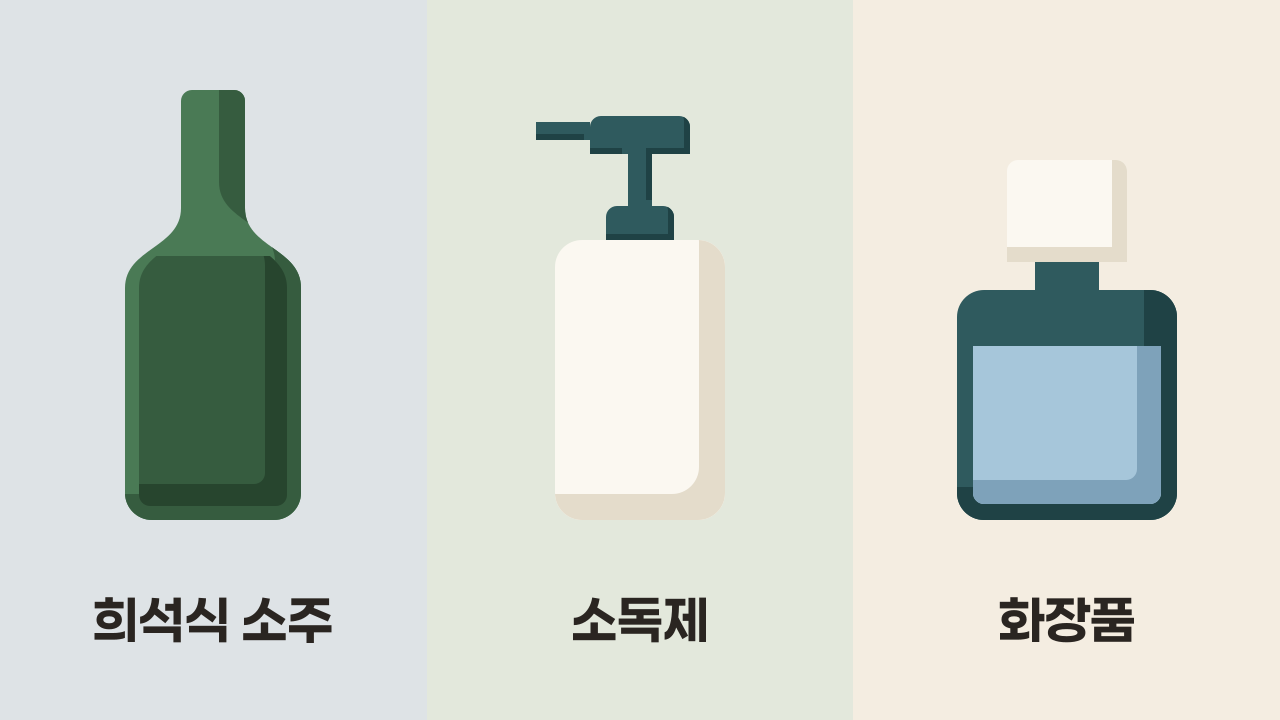
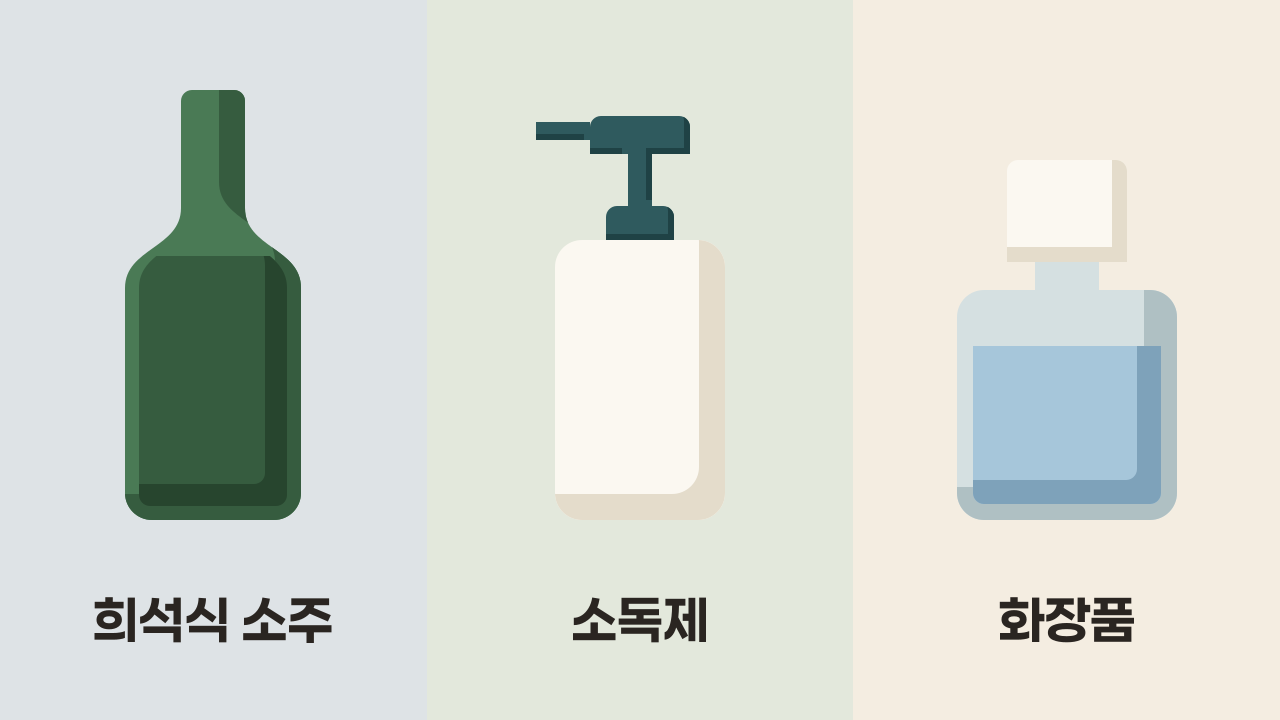
docs: 노닉 잔을 기준 이미지에 올리고 색 견본의 행 예외를 두며 3번 글 화장품 병을 맑은 유리로 바꾼다
- 7번 글 표지의 노닉 파인트 맥주잔을 다음 맥주 그림에서도 같은 모양으로 쓰도록 기준 이미지 표에 올린다(사용자 결정).
- 표의 색 견본은 모든 행에 쓰거나 모두 쓰지 않는다는 규칙과 "사용자가 빼라고 하면 뺀다"는 글쓰기 규칙이 부딪혀, 사용자가 특정 행에서 빼라고 하면 그 행만 빼는 예외를 둔다(사용자 결정). 줄글의 겹치는 두 문장은 한 문장으로 합친다.
- 유리 색 표를 새로 둔 데 맞춰 3번 글 본문 그림의 투명한 화장품 병을 맑은 유리로 바꾼다. 3번 글 표지의 주정 병은 사용자 결정으로 짙은 청록 그대로 둔다. 글 본문과 발행 상태는 바꾸지 않는다.

Changed region(s): [[0.75, 0.3667, 0.9375, 0.7333]]

diff --git a/.claude/docs/blog-designer/컴포넌트.md b/.claude/docs/blog-designer/컴포넌트.md
@@ -229,8 +229,8 @@ SiteFooter          ← 위 간격 section-gap
 - 글이 대상의 겉보기 색을 말할 때만 쓴다. 표의 색 열, 줄글에서 대상의 색을 말하는 자리(p, li, 표 칸)다.
 - 쓰지 않는 곳: 제목(h1~h3), 참고 Callout 의 `summary` 제목, 그림 캡션과 alt(그림이 이미 색을 보여준다), 참고 자료, 요약(`description`), 링크 글자 안.
 - 쓰지 않는 경우: 색이 아닌 비유("커피 같은 맛"), 대상의 색이 아닌 과정 설명("갈색으로 변한다"처럼 반응을 말할 때). 색 이름 없이 원만 두는 경우.
-- 표에서는 색 열의 모든 행에 쓰거나 모두 쓰지 않는다. 일부 행만 원이 있으면 원 없는 행이 다른 뜻으로 읽힌다. 맞는 색 견본 토큰이 없는 행이 있으면 먼저 토큰을 더한다.
-- 줄글에서는 같은 문단 안 같은 색은 처음 한 번만 쓴다. 한 글에서 같은 색에 원을 반복해 달지 않는다.
+- 표에서는 색 열의 모든 행에 쓰거나 모두 쓰지 않는다. 일부 행만 원이 있으면 원 없는 행이 다른 뜻으로 읽힌다. 맞는 색 견본 토큰이 없는 행이 있으면 먼저 토큰을 더한다. 예외로 사용자가 특정 행에서 빼라고 하면 그 행만 뺀다.
+- 줄글에서는 같은 색에 원을 한 글에서 처음 한 번만 단다.
 - children 은 색 이름 글자만 넣는다. 다른 낱말, 조사, 강조(`strong`), 링크, 다른 컴포넌트를 넣지 않는다. 공백 포함 10자 이하(줄바꿈하지 않으므로 좁은 표 칸을 넓히지 않게 한다).
 - `color` 는 children 과 짝이 맞아야 한다. 짝은 `토큰.md` "색 견본 색" 표의 "짝이 되는 글 속 색 이름" 열이 정한다. 글 속 색 이름에 맞는 토큰이 없으면 가까운 토큰으로 대신하지 않고 blog-designer 에 토큰 추가를 요청한다. 짝 검사는 디자인 리뷰가 한다(빌드는 이름이 표에 있는지만 검사한다).
 - 글 속 색 이름 표현(어떤 말로 색을 부를지)은 블로그 글 규칙(`.claude/docs/blog-content-reviewer/글쓰기.md`)이 정한다. 이 컴포넌트는 그 말 앞에 원을 둘 뿐이다.

diff --git a/.claude/docs/illustrator/일러스트.md b/.claude/docs/illustrator/일러스트.md
@@ -217,3 +217,4 @@
 | 보리 이삭(짙은 호박 줄기 양쪽에 호박 낟알을 엇갈려 띄워 달고, 낟알 끝에서 긴 까락이 V 자로 벌어짐) | `apps/web/src/content/posts/6/cover.svg` | 2026-10-25 |
 | 물방울(위가 뾰족하고 아래가 둥근 짙은 청록 면) | `apps/web/src/content/posts/6/cover.svg` | 2026-10-25 |
 | 보리 낟알 한 알(양 끝이 뾰족한 호박 면). 맥아는 같은 낟알 아래 끝에 세이지 뿌리 세 가닥을 단다 | `apps/web/src/content/posts/6/barley-and-malt.svg` | 2026-10-25 |
+| 노닉 파인트 맥주잔(맑은 유리) | `apps/web/src/content/posts/7/cover.svg` | 2026-10-25 |
